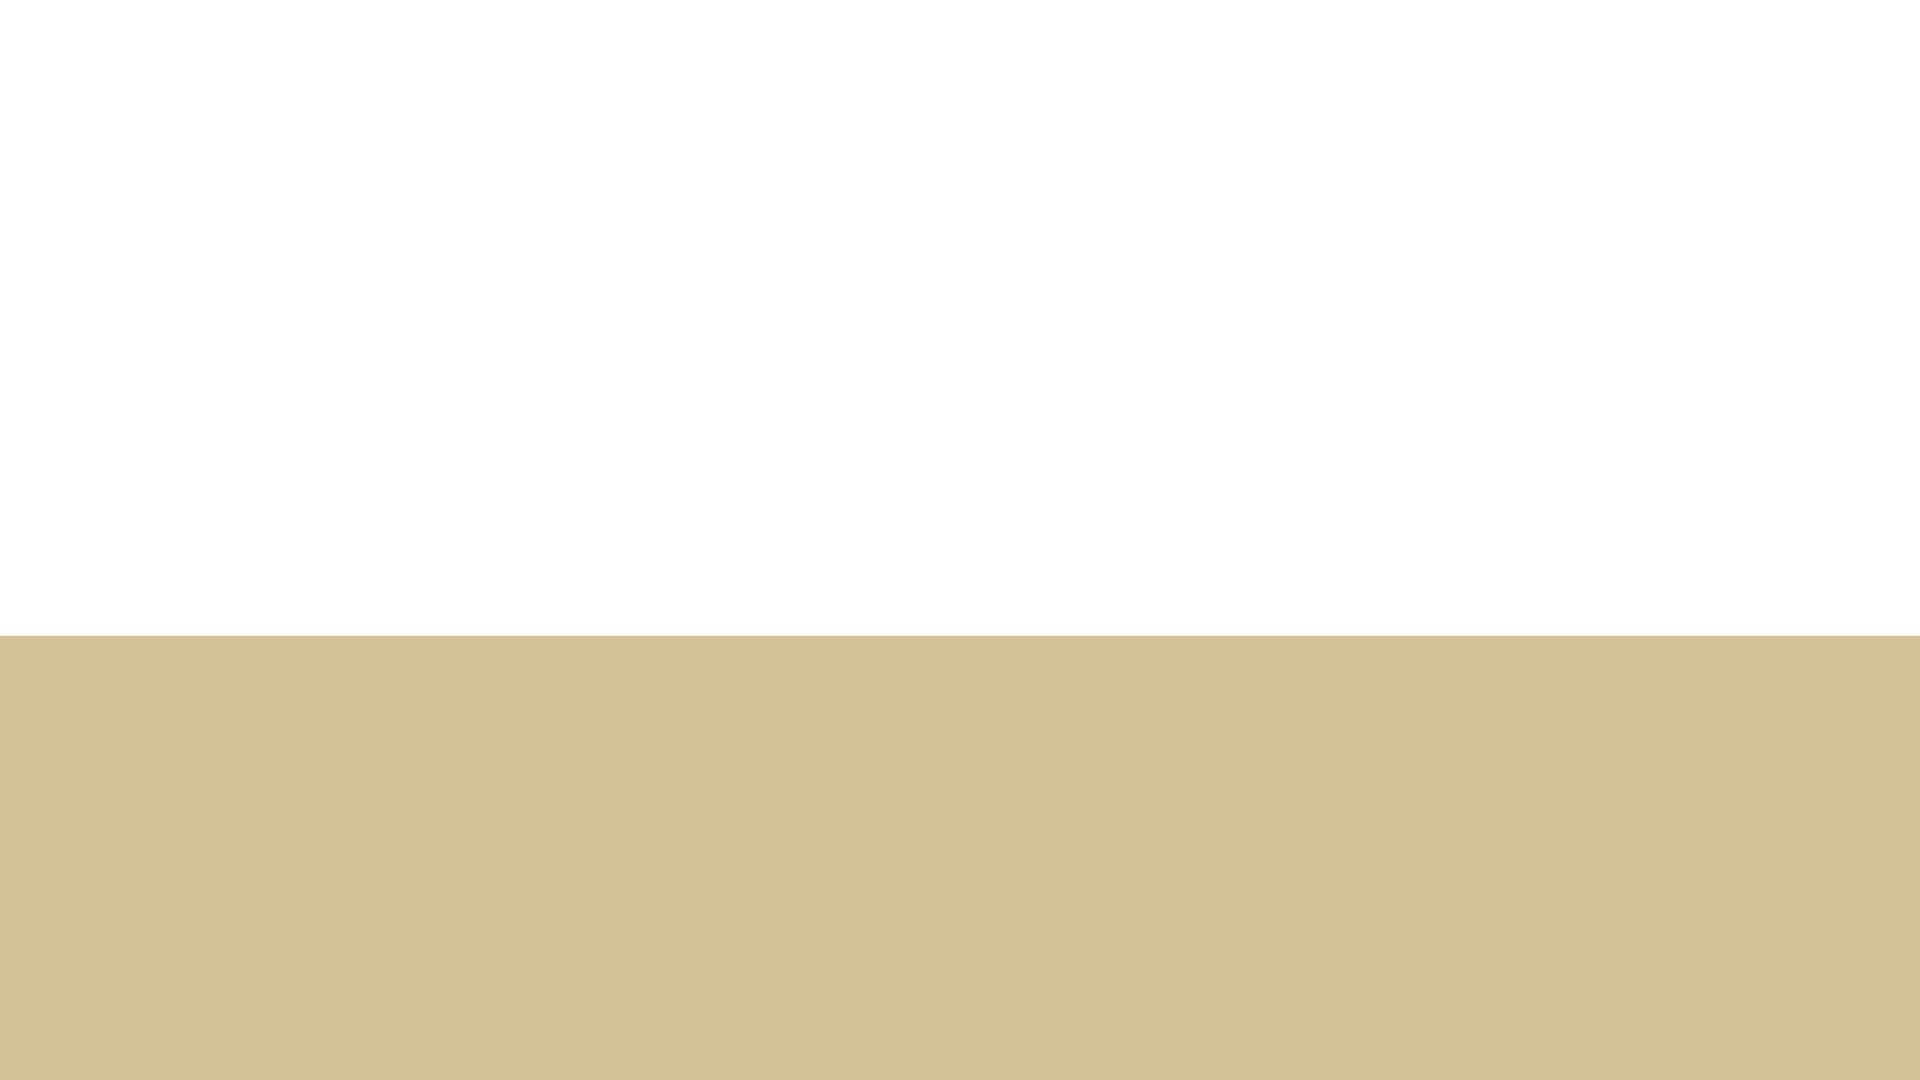
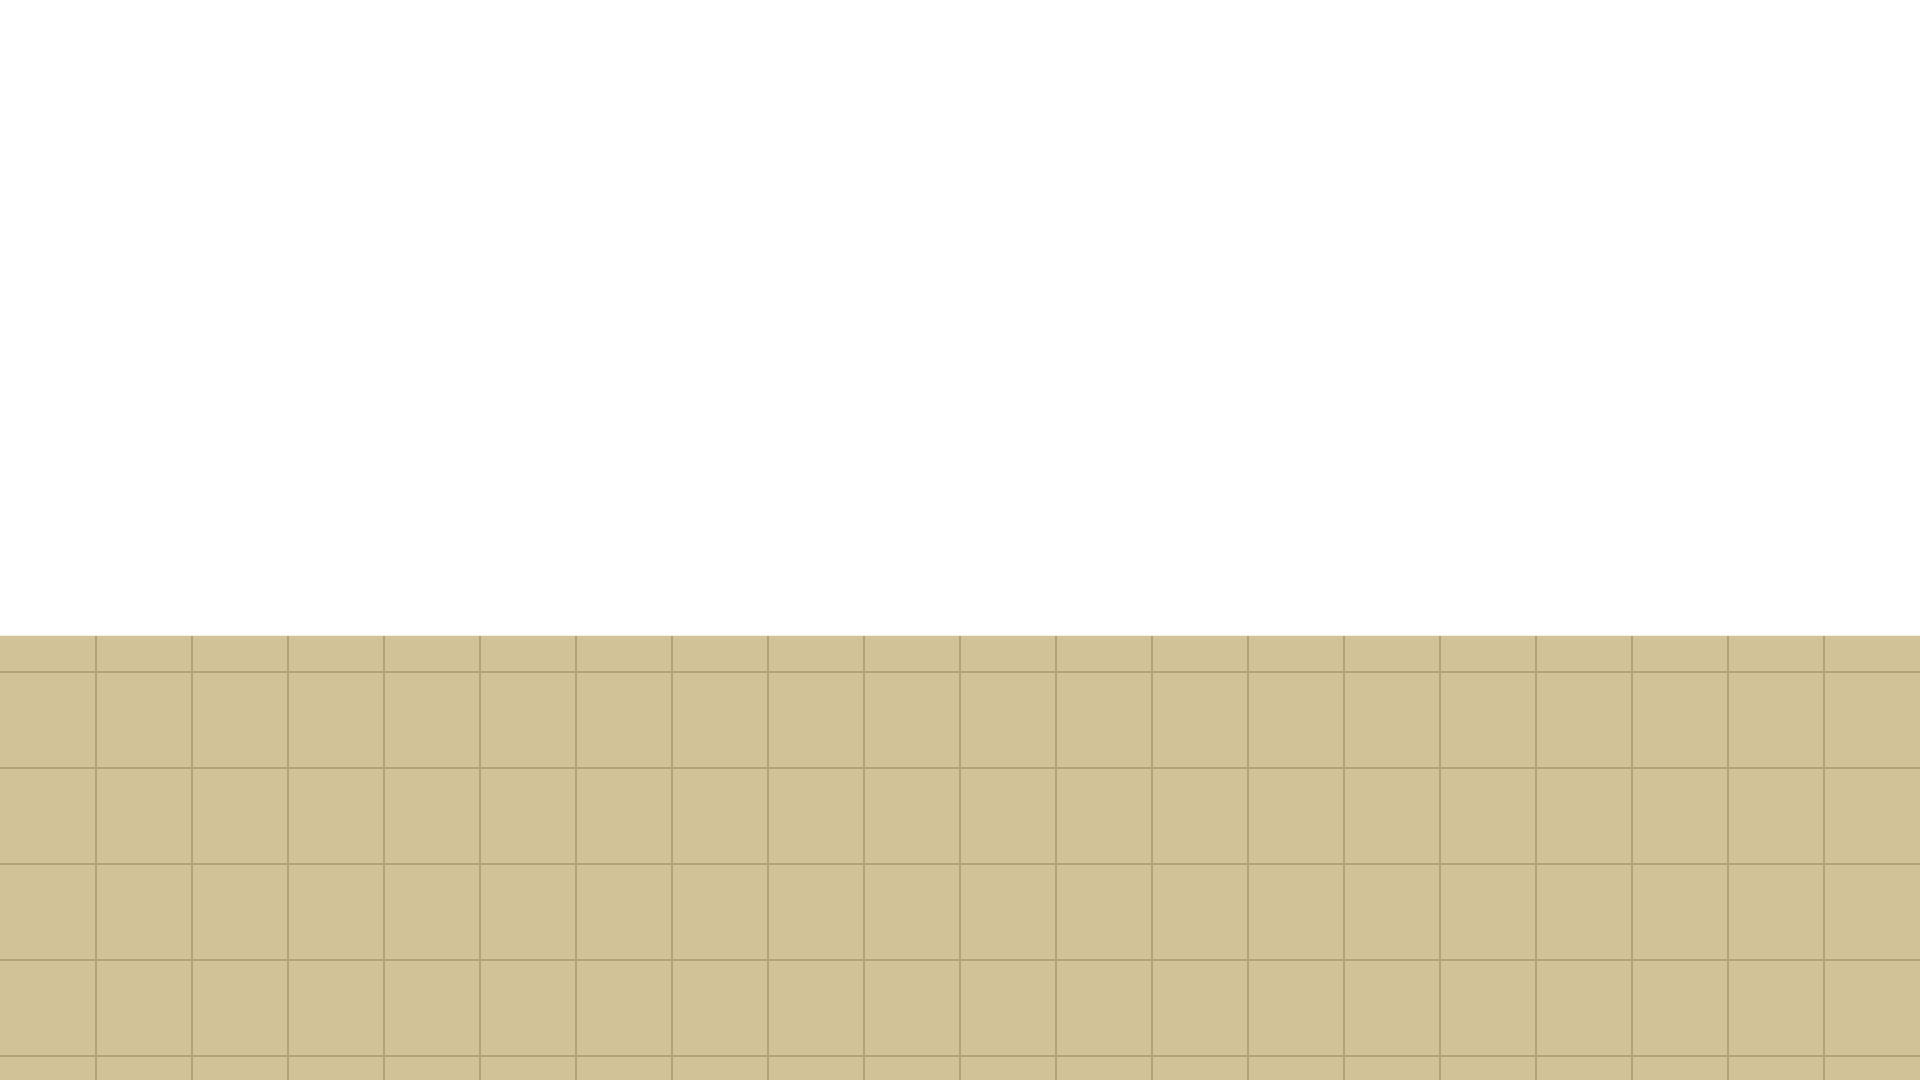
歪み確認用に地面にグリッド追加

diff --git a/docs/minimal-implementation.md b/docs/minimal-implementation.md
@@ -28,7 +28,7 @@ npm run build
 - 基準平面はz=0。高さを保存するモデルとし、幅・px換算値・正のカメラZを導出する。
 - 正面向きレイヤー2枚と水平地面1枚を固定で用意する。追加・削除、任意の回転はまだ扱わない。
 - 初期の遠景Plane（レイヤー1）はz=-40とし、地面の奥端z=-28より奥へ配置する。基準カメラからの2D位置・サイズを保つようPlaneを拡縮する。これは初期配置であり、地面サイズ変更時に遠景を自動追従させるものではない。
-- 地面サンプルは黄緑の帯や模様を含めず、黄色一色とする。画像の上端は初期地面の奥端を基準カメラへ投影した位置（約636px）に合わせ、その上は透明にする。地面の初期幅は60とし、その上端で画面の横幅を覆えるようにする。PNGはこの初期配置に合わせて用意した固定の画像とし、実行時にCanvasで生成しない。変更後のFOVや地面配置に合わせて元画像を描き換えることはしない。
+- 地面サンプルは黄緑の帯を含めず、黄色地に96px間隔の薄い正方形グリッドを入れる。画像自体にパースは付けず、投影後の変形を確認する目印として使う。画像の上端は初期地面の奥端を基準カメラへ投影した位置（約636px）に合わせ、その上は透明にする。地面の初期幅は60とし、その上端で画面の横幅を覆えるようにする。PNGはこの初期配置に合わせて用意した固定の画像とし、実行時にCanvasで生成しない。変更後のFOVや地面配置に合わせて元画像を描き換えることはしない。
 - FOVや基準設定の適用時は、正面レイヤーの「2D配置を保つ／3D配置を保つ」を比較できる。2D維持の場合もレイヤーZは保持する。これは最終仕様を判断するための検証用切り替え。
 - 地面はFOV変更で自動移動・自動拡縮しない。形状の範囲を見ながら手動調整する。
 - 基準カメラの変更で投影を更新する。視差確認・配置確認用カメラの操作は編集モデルを変更しない。
